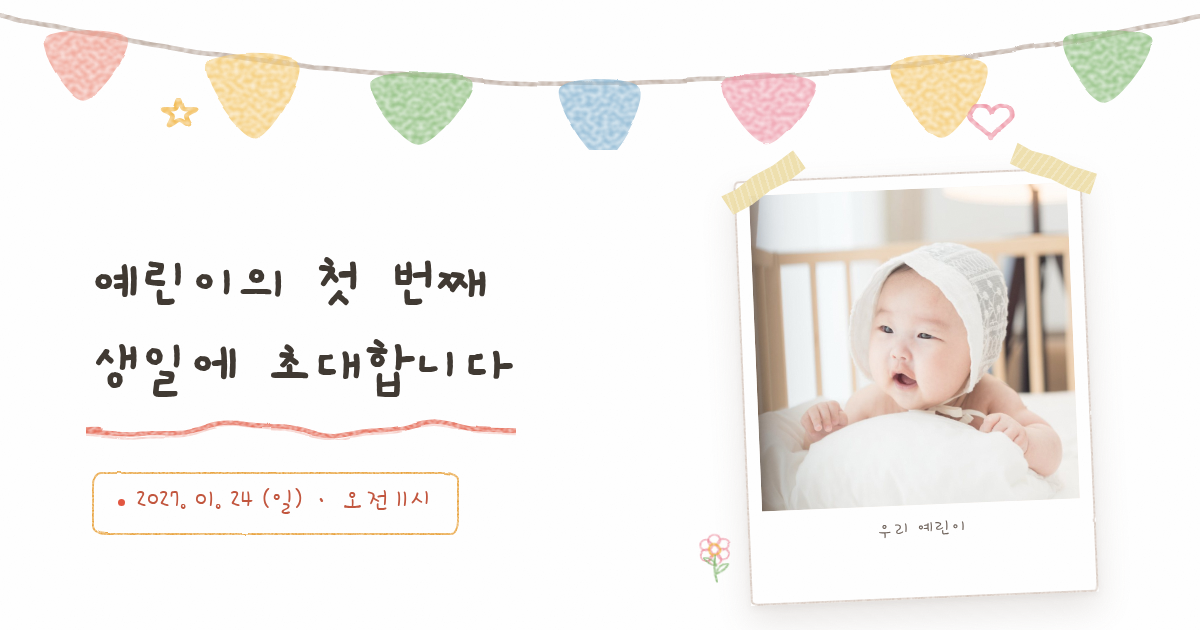
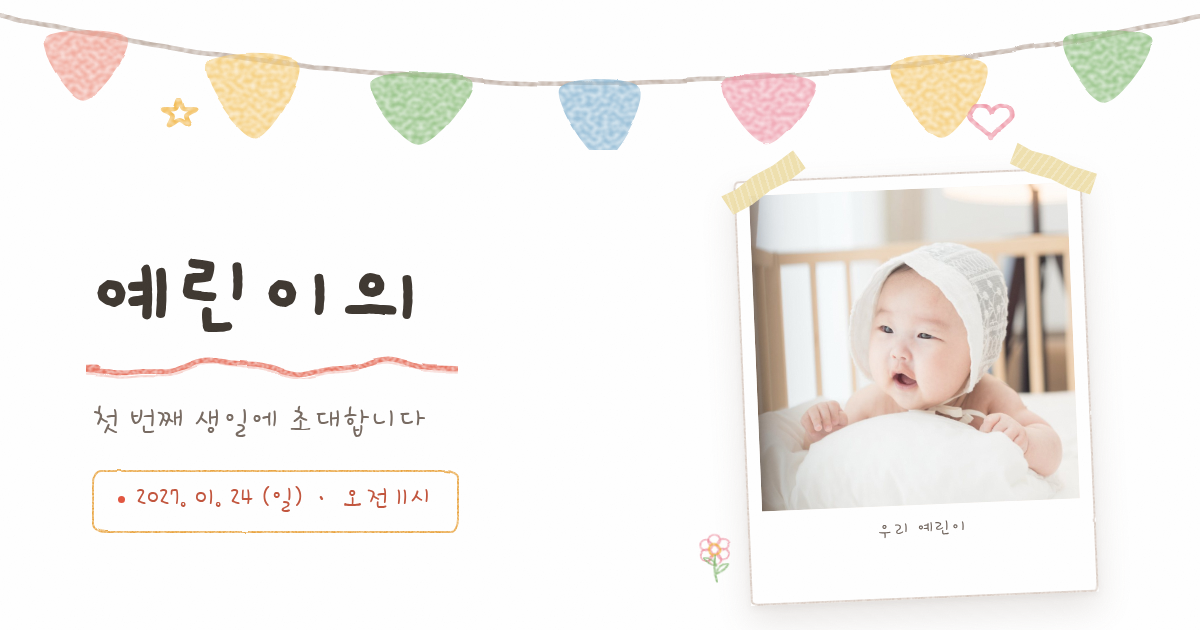
OG 미리보기 v9-c: 수정 전 포맷 복원 — 큰 '예린이의' + 빨간 크레파스 밑줄 + 부제 '첫 번째 생일에 초대합니다' + 날짜 칩 (og-image-crayon-v4.png)

Changed region(s): [[0.0617, 0.3921, 0.4317, 0.8143], [0.0925, 0.8444, 0.37, 0.8746], [0.2775, 0.7841, 0.3392, 0.8143]]

diff --git a/index.html b/index.html
@@ -26,6 +26,8 @@
   · v9 수정(2026-11-18): WHEN 카드 부제 문구 '오전 11시 · 점심 자리' → '오전 11시 · 점심'(수현 님 요청)
   · v9-b(2026-11-18): OG 미리보기 이미지 재제작 — 큰 '박예린' 제목 삭제, '예린이의 첫 번째 / 생일에 초대합니다'를
     큰 크레파스 제목(Gaegu 700, 60px, 2줄)으로 배치 + 빨간 밑줄·날짜 칩 정렬 (1200×630, og-image-crayon-v3.png)
+  · v9-c(2026-11-18): OG 미리보기 이미지를 '수정 전 포맷'으로 복원 — 큰 제목 '예린이의' + 빨간 크레파스 밑줄
+    + 부제 '첫 번째 생일에 초대합니다' + 날짜 칩 (수현 님 "포멧은 수정전이랑 똑같이") → og-image-crayon-v4.png
   · 390px 모바일 폭 기준 단일 파일 초대장
 -->
 <html lang="ko">
@@ -42,8 +44,8 @@
 <meta property="og:title" content="박예린의 첫 번째 생일 · 초대합니다">
 <meta property="og:description" content="2027년 1월 24일 일요일 오전 11시 · 빕스 목동41타워점">
 <meta property="og:url" content="https://kimsh410-oss.github.io/yerin-first-birthday/">
-<meta property="og:image" content="https://kimsh410-oss.github.io/yerin-first-birthday/og-image-crayon-v3.png">
-<meta property="og:image:secure_url" content="https://kimsh410-oss.github.io/yerin-first-birthday/og-image-crayon-v3.png">
+<meta property="og:image" content="https://kimsh410-oss.github.io/yerin-first-birthday/og-image-crayon-v4.png">
+<meta property="og:image:secure_url" content="https://kimsh410-oss.github.io/yerin-first-birthday/og-image-crayon-v4.png">
 <meta property="og:image:type" content="image/png">
 <meta property="og:image:width" content="1200">
 <meta property="og:image:height" content="630">
@@ -52,7 +54,7 @@
 <meta name="twitter:card" content="summary_large_image">
 <meta name="twitter:title" content="박예린의 첫 번째 생일 · 초대합니다">
 <meta name="twitter:description" content="2027년 1월 24일 일요일 오전 11시 · 빕스 목동41타워점">
-<meta name="twitter:image" content="https://kimsh410-oss.github.io/yerin-first-birthday/og-image-crayon-v3.png">
+<meta name="twitter:image" content="https://kimsh410-oss.github.io/yerin-first-birthday/og-image-crayon-v4.png">
 <link rel="preconnect" href="https://fonts.googleapis.com">
 <link rel="preconnect" href="https://fonts.gstatic.com" crossorigin>
 <link href="https://fonts.googleapis.com/css2?family=Gaegu:wght@300;400;700&family=Hi+Melody&family=Gowun+Dodum&display=swap" rel="stylesheet">
